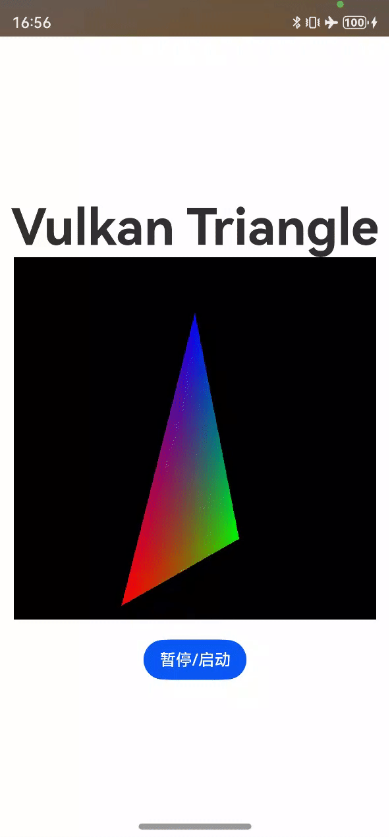
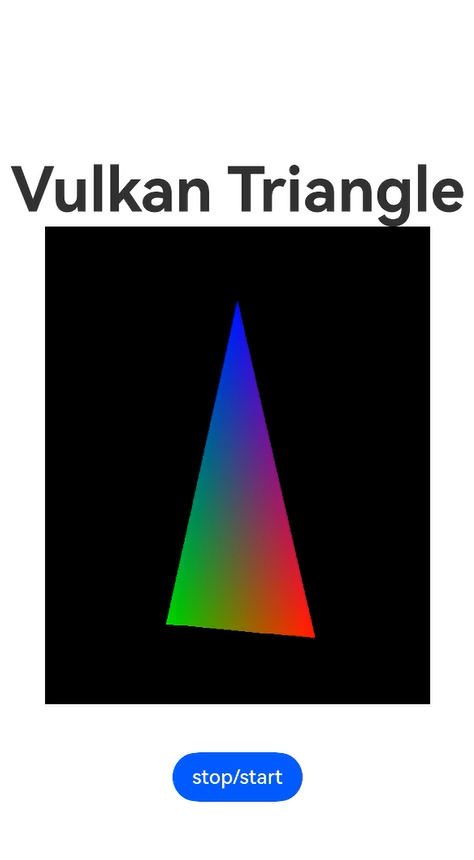
fixed ed47393 from https://gitee.com/saillll/applications_app_samples/pulls/4427 fix ndkvulkan sample bug and update README.

diff --git a/code/BasicFeature/Native/NdkVulkan/entry/src/main/cpp/render/plugin_manager.cpp b/code/BasicFeature/Native/NdkVulkan/entry/src/main/cpp/render/plugin_manager.cpp
@@ -24,25 +24,14 @@ bool PluginManager::Init(napi_env env, napi_value exports)
     OH_NativeXComponent *nativeXComponent = nullptr;
     // get exportInstance
     napi_status status = napi_get_named_property(env, exports, OH_NATIVE_XCOMPONENT_OBJ, &exportInstance);
-    if (status != napi_ok) {
-        LOGE("PluginManager::Export napi_get_named_property failed, status:%{public}d", static_cast<int>(status));
-        return false;
-    }
+
     // get nativeXComponent
     status = napi_unwrap(env, exportInstance, reinterpret_cast<void **>(&nativeXComponent));
-    if (status != napi_ok) {
-        LOGE("PluginManager::Export napi_unwrap failed, status:%{public}d", static_cast<int>(status));
-        return false;
-    }
 
     char idStr[OH_XCOMPONENT_ID_LEN_MAX + 1] = {};
     uint64_t idSize = OH_XCOMPONENT_ID_LEN_MAX + 1;
     // get nativeXComponent Id
     int32_t ret = OH_NativeXComponent_GetXComponentId(nativeXComponent, idStr, &idSize);
-    if (ret != OH_NATIVEXCOMPONENT_RESULT_SUCCESS) {
-        LOGE("PluginManager::Export OH_NativeXComponent_GetXComponentId failed, ret:%{public}d", ret);
-        return false;
-    }
 
     std::string id(idStr);
     auto context = PluginManager::GetInstance();

diff --git a/code/BasicFeature/Native/NdkVulkan/entry/src/main/cpp/render/vulkan/vulkan_example.cpp b/code/BasicFeature/Native/NdkVulkan/entry/src/main/cpp/render/vulkan/vulkan_example.cpp
@@ -82,6 +82,12 @@ bool VulkanExample::IsInited() const
 {
     return inited;
 }
+
+void VulkanExample::SetRecreateSwapChain()
+{
+    shouldRecreate = true;
+}
+
 // Load libvulkan.so
 VulkanExample::VulkanExample()
 {
@@ -277,7 +283,7 @@ void VulkanExample::CreateSwapChain()
         createInfo.imageSharingMode = VK_SHARING_MODE_EXCLUSIVE;
     }
 
-    createInfo.preTransform = swapChainSupport.capabilities.currentTransform;
+    createInfo.preTransform = VK_SURFACE_TRANSFORM_IDENTITY_BIT_KHR;
     createInfo.compositeAlpha = VK_COMPOSITE_ALPHA_OPAQUE_BIT_KHR;
     createInfo.presentMode = presentMode;
     createInfo.clipped = VK_TRUE;
@@ -850,8 +856,9 @@ void VulkanExample::DrawFrame()
     uint32_t imageIndex;
     VkResult result = vkAcquireNextImageKHR(device, swapChain, UINT64_MAX,
         imageAvailableSemaphore, VK_NULL_HANDLE, &imageIndex);
-    if (result == VK_ERROR_OUT_OF_DATE_KHR) {
+    if (result == VK_ERROR_OUT_OF_DATE_KHR || shouldRecreate) {
         LOGI("Need to recreate swapchain!");
+        shouldRecreate = false;
         RecreateSwapChain();
         return;
     }

diff --git a/code/BasicFeature/Native/NdkVulkan/entry/src/main/cpp/render/plugin_render.cpp b/code/BasicFeature/Native/NdkVulkan/entry/src/main/cpp/render/plugin_render.cpp
@@ -155,6 +155,11 @@ void PluginRender::OnSurfaceCreated(OH_NativeXComponent *component, void *window
 void PluginRender::OnSurfaceChanged(OH_NativeXComponent *component, void *window)
 {
     int32_t ret = OH_NativeXComponent_GetXComponentSize(component, window, &width_, &height_);
+    if (vulkanExample_ == nullptr) {
+        OnSurfaceCreated(component, window);
+    } else {
+        vulkanExample_->SetRecreateSwapChain();
+    }
     LOGD("PluginRender::OnSurfaceChanged ret is %{public}d, w:%{public}lu, d:%{public}lu", ret, width_, height_);
 }
 

diff --git a/code/BasicFeature/Native/NdkVulkan/entry/src/main/cpp/render/vulkan/vulkan_example.h b/code/BasicFeature/Native/NdkVulkan/entry/src/main/cpp/render/vulkan/vulkan_example.h
@@ -56,6 +56,7 @@ public:
     void SetUp();
     void RenderLoop();
     bool IsInited() const;
+    void SetRecreateSwapChain();
 private:
     bool CreateInstance();
     bool CreateSurface();
@@ -135,6 +136,7 @@ private:
     uint32_t width = 1280;
     uint32_t height = 720;
     bool inited = false;
+    bool shouldRecreate = false;
     const std::vector<const char *> deviceExtensions = {VK_KHR_SWAPCHAIN_EXTENSION_NAME};
     std::vector<std::string> supportedInstanceExtensions;
     std::vector<const char *> enabledInstanceExtensions;

diff --git a/code/BasicFeature/Native/NdkVulkan/entry/src/main/cpp/render/plugin_manager.h b/code/BasicFeature/Native/NdkVulkan/entry/src/main/cpp/render/plugin_manager.h
@@ -27,8 +27,7 @@
 
 class PluginManager {
   public:
-    ~PluginManager() {
-    }
+    ~PluginManager() = default;
     static PluginManager *GetInstance()
     {
         static PluginManager instance;
